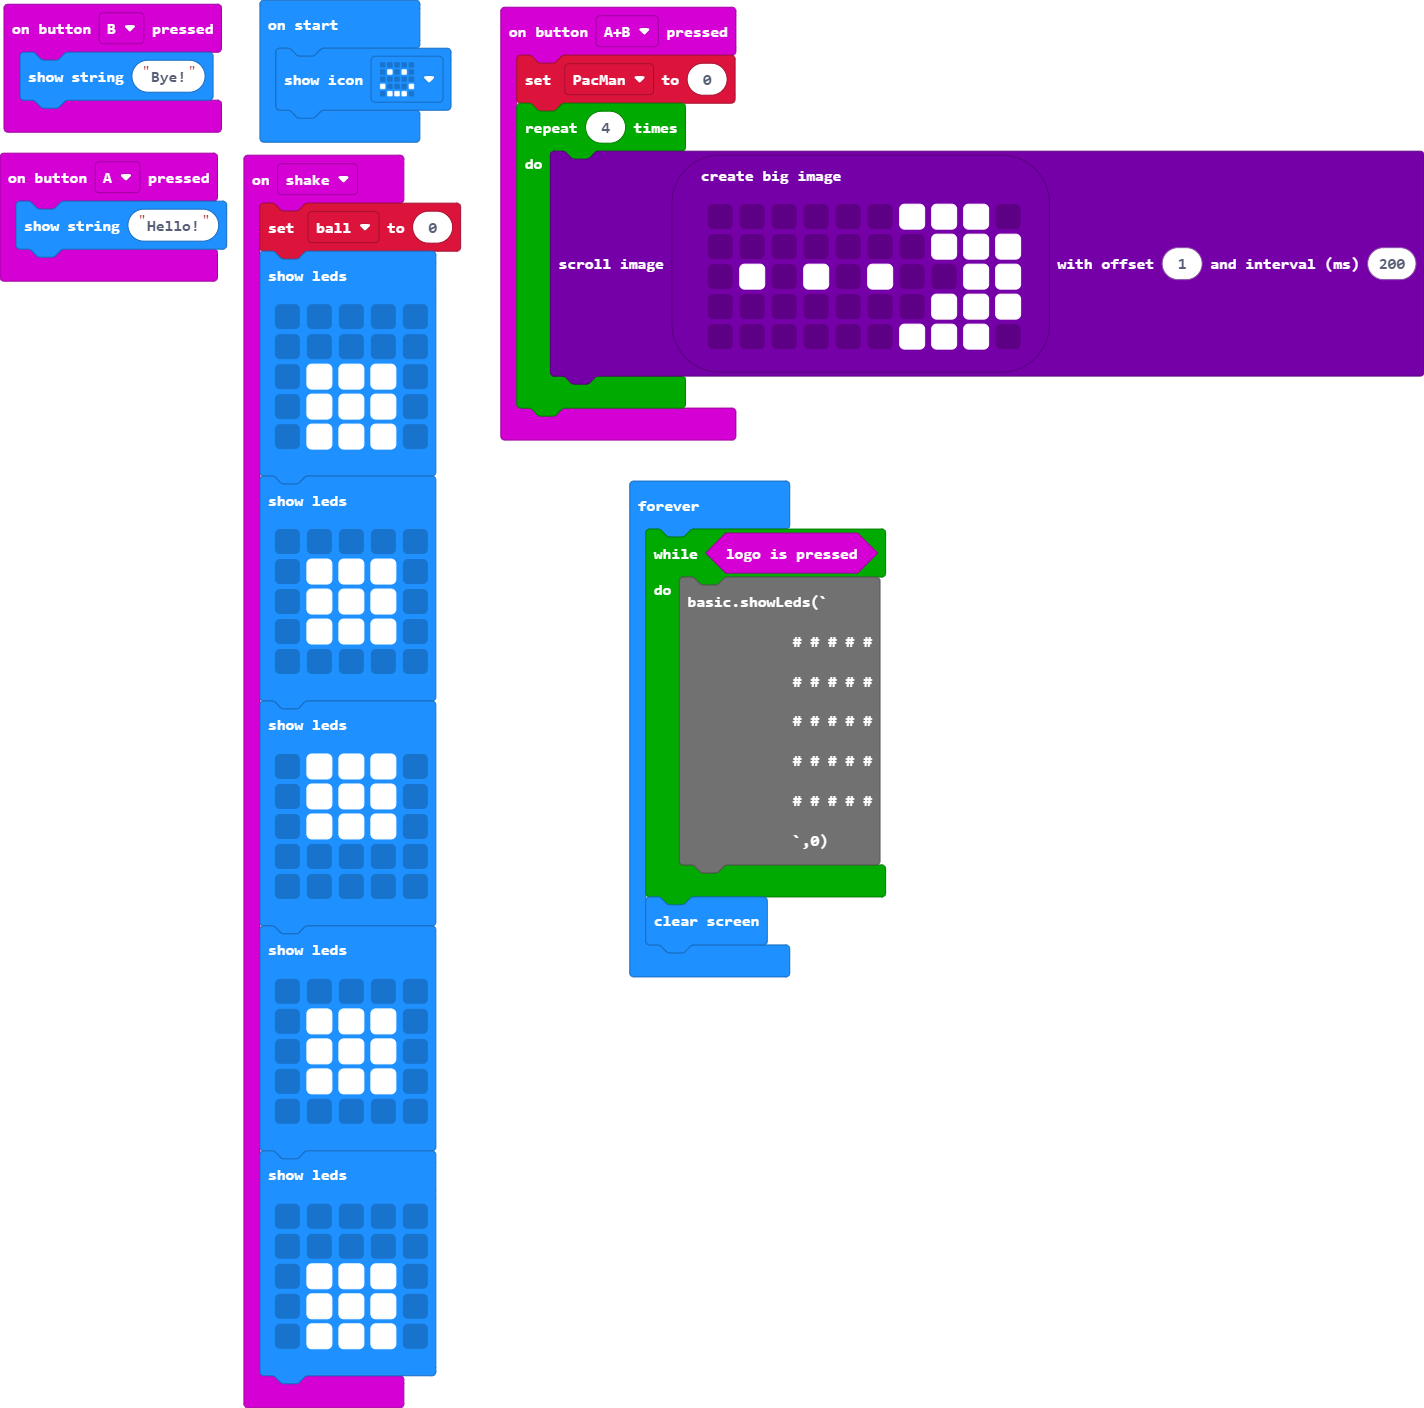
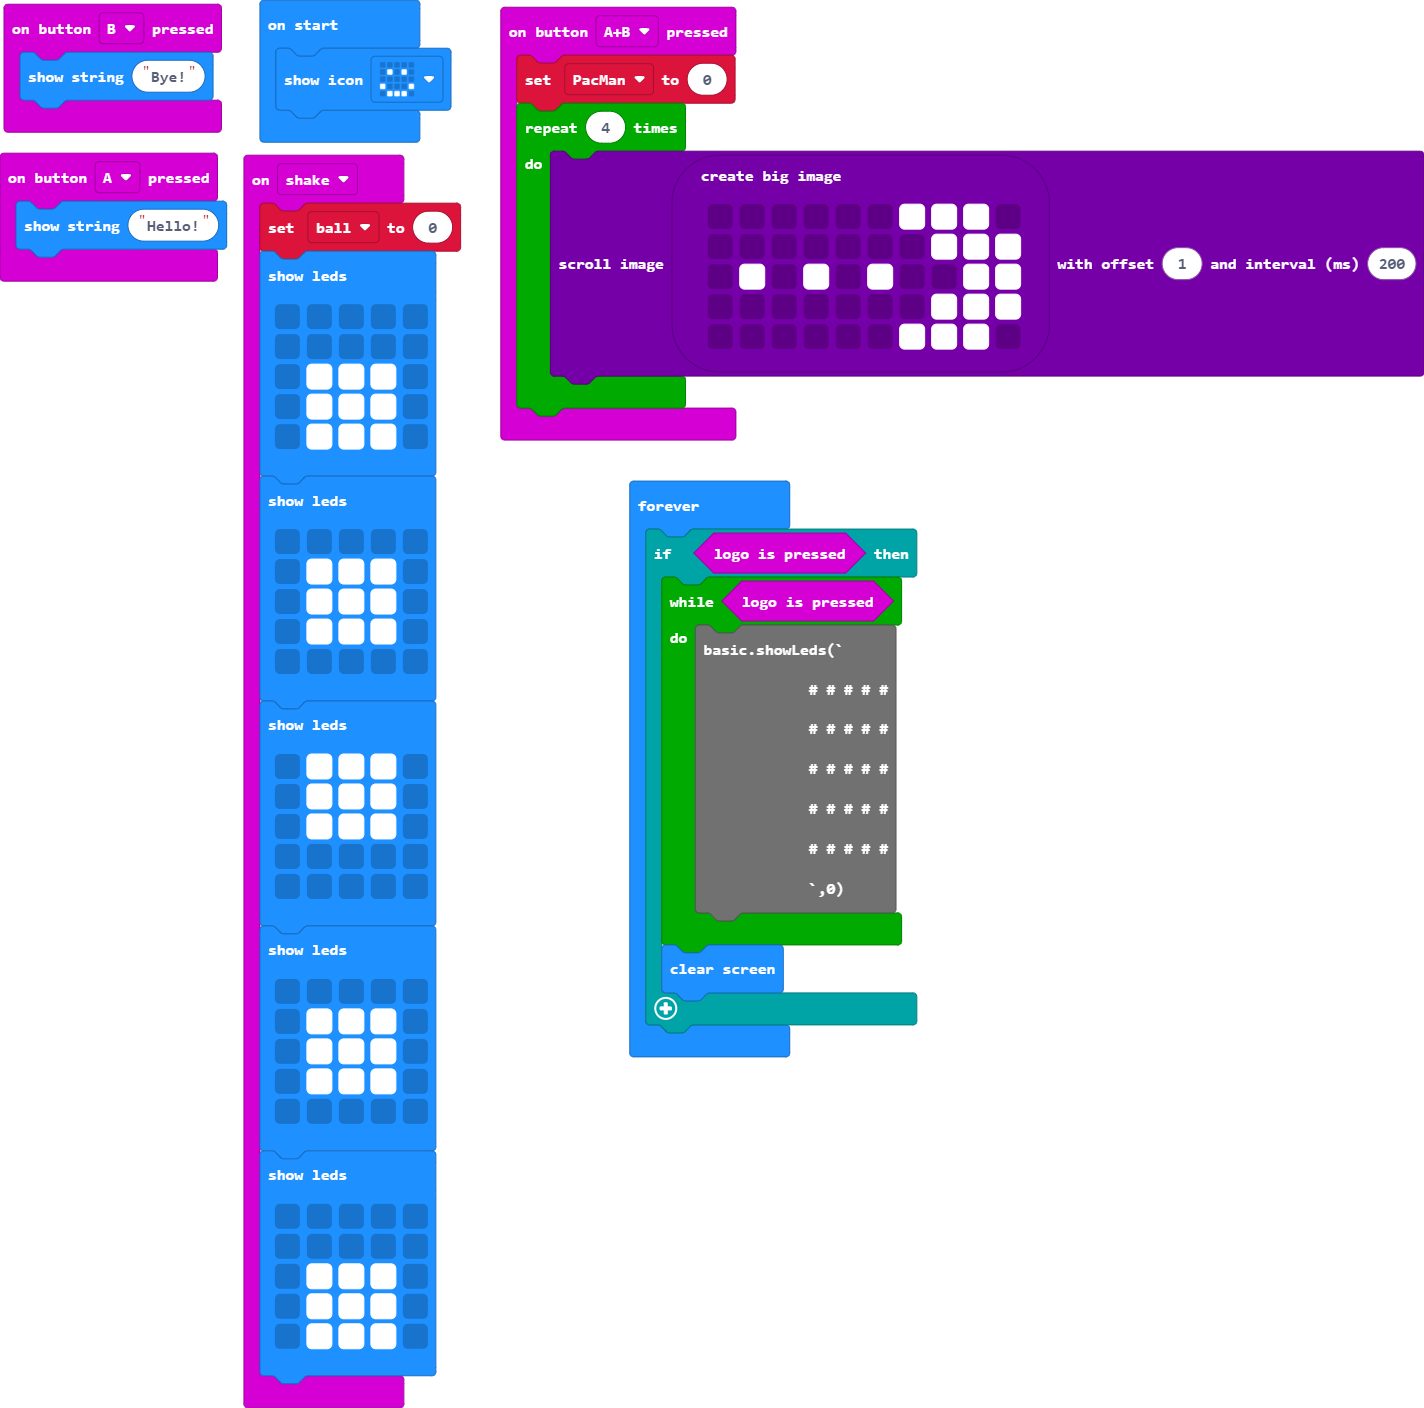
Update main.blocks, main.ts

Changed region(s): [[0.4326, 0.375, 0.6489, 0.75]]

diff --git a/main.ts b/main.ts
@@ -58,14 +58,16 @@ let ball = 0
 let PacMan = 0
 basic.showIcon(IconNames.Happy)
 basic.forever(function () {
-    while (input.logoIsPressed()) {
-        basic.showLeds(`
+    if (input.logoIsPressed()) {
+        while (input.logoIsPressed()) {
+            basic.showLeds(`
             # # # # #
             # # # # #
             # # # # #
             # # # # #
             # # # # #
             `,0)
+        }
+        basic.clearScreen()
     }
-    basic.clearScreen()
 })
